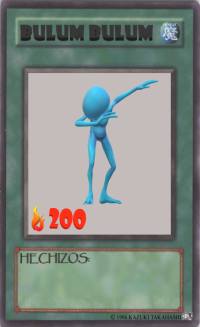
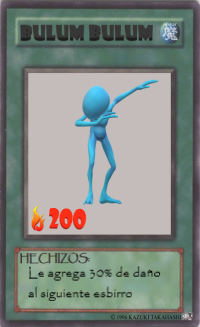
Se añade descrippcion en las cartas

Changed region(s): [[0.12, 0.8869, 0.66, 0.9174], [0.45, 0.7951, 0.81, 0.8563], [0.12, 0.8257, 0.42, 0.8563]]

diff --git a/src/main/java/Visual/MenuInicial.java b/src/main/java/Visual/MenuInicial.java
@@ -1355,7 +1355,6 @@ public class MenuInicial extends JFrame implements Observer {
                     Movimiento movimiento = new Movimiento(this.turno,this.username,this.miVida,this.miMana,utilizada.getNombre(),
                             utilizada.getAtaque(),utilizada.getMana());
                     this.historial.insertLast(movimiento);
-                    this.historial.print();
                     EnvioJson(movimiento);
                     this.turno++;
                 }
@@ -1401,7 +1400,7 @@ public class MenuInicial extends JFrame implements Observer {
             Movimiento movimiento = new Movimiento(this.turno,this.username,this.miVida,this.miMana,"Tomar Carta",
                     0,0);
             this.historial.insertLast(movimiento);
-            this.historial.print();
+
             EnvioJson(movimiento);
             this.turno++;
 
@@ -1487,7 +1486,6 @@ public class MenuInicial extends JFrame implements Observer {
                         0,0);
 
                 this.historial.insertLast(movimiento);
-                this.historial.print();
                 EnvioJson(movimiento);
                 this.turno++;
 
@@ -2052,9 +2050,6 @@ public class MenuInicial extends JFrame implements Observer {
     public void cargarCartas() throws IOException {
 
         this.cartasTotal = Json.initializeCartas();
-        for(int i = 0; i < 30;i++) {
-            System.out.println(this.cartasTotal.getCartastotal()[i].toString());
-        }
         setMazo(this.cartasTotal);
     }
 
@@ -2129,7 +2124,6 @@ public class MenuInicial extends JFrame implements Observer {
             this.historial.insertLast(this.movimientosTotal.getMov()[i]);
         }
 
-        this.historial.print();
         this.histoselec = this.historial.getSelec();
         Movimiento inicial = this.histoselec.getObject();
         setMovimiento(inicial);

diff --git a/src/main/java/Sockets/Client.java b/src/main/java/Sockets/Client.java
@@ -6,6 +6,7 @@ import javax.swing.*;
 import java.io.DataOutputStream;
 import java.io.IOException;
 import java.net.Socket;
+import java.util.Observable;
 import java.util.logging.Level;
 import java.util.logging.Logger;
 
@@ -15,7 +16,7 @@ import java.util.logging.Logger;
  * @see java.lang.Runnable
  *
  */
-public class Client implements Runnable {
+public class Client extends Observable implements Runnable {
     //atributos
     /**
      * port es puerto de cliente y msg el mensaje.
